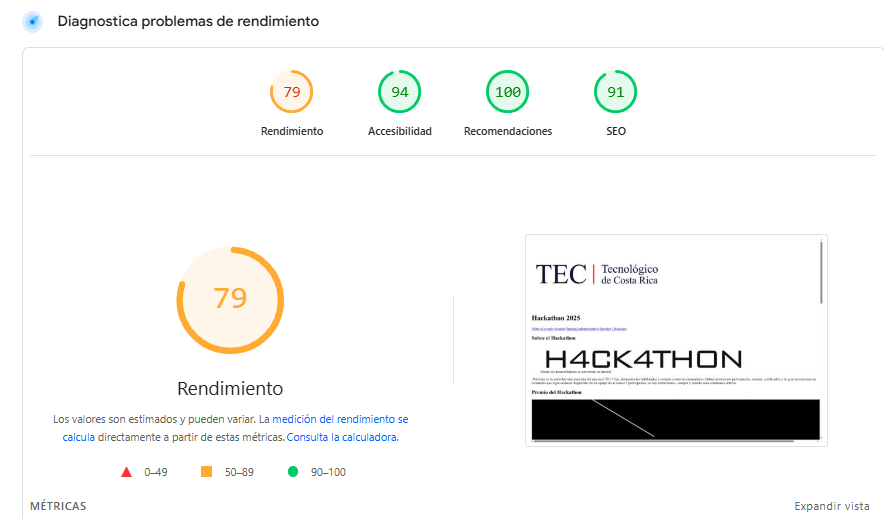
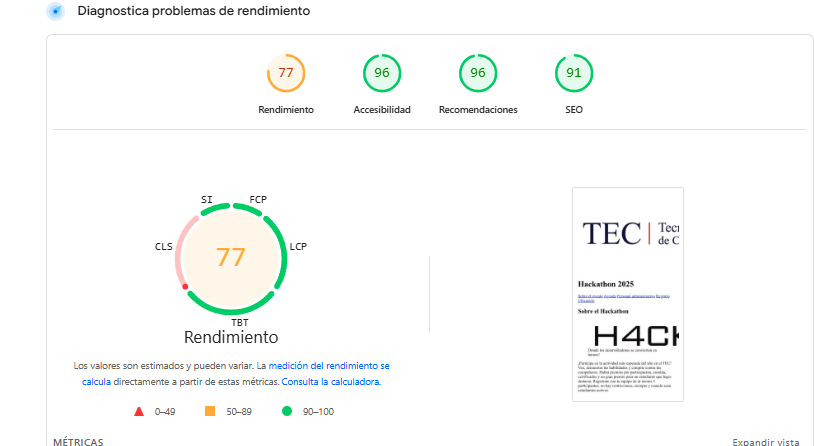
CORRECION

diff --git a/README.md b/README.md
@@ -44,19 +44,19 @@ Se ejecutó Lighthouse sobre la URL de Netlify seleccionando las categorías:
 
 | Categoría       | Puntuación |
 |-----------------|------------|
-| Accessibility   | 94/100     |
+| Accessibility   | 96/100     |
 | SEO             | 91/100     |
-| Recomendaciones | 100/100    |
-| SEO             | 90/100     |
+| Recomendaciones | 96/100    |
+
 
 - **Capturas:**  
   ![Captura Accessibility](assets/lighthouse-accessibility.png)  
   
 
-- **Plan de mejoras:**  
+- **Plan de mejoras accessibility :**  
   - Mejorar el tamaño y separacion de los patrocinadores
-  - Corregir orden de orden de encabezado en administrativo elder (corregido)
-
+- **Plan de mejoras SEO :**  
+  -Se pueden incluir metadescripciones en los resultados de la búsqueda para resumir el contenido de la página. 
 ---
 
 ## Accesibilidad aplicada
